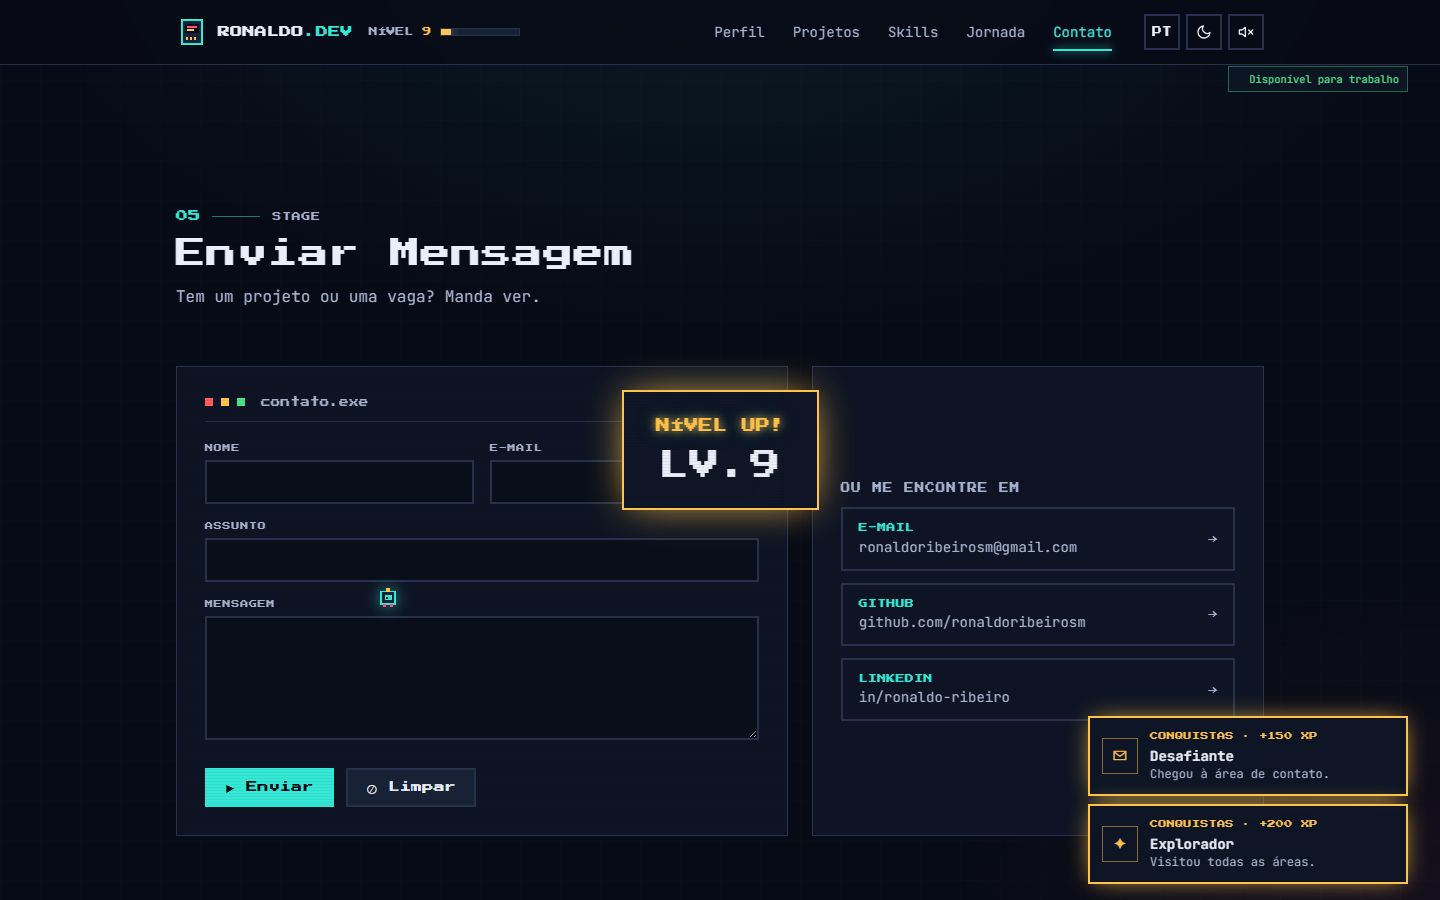
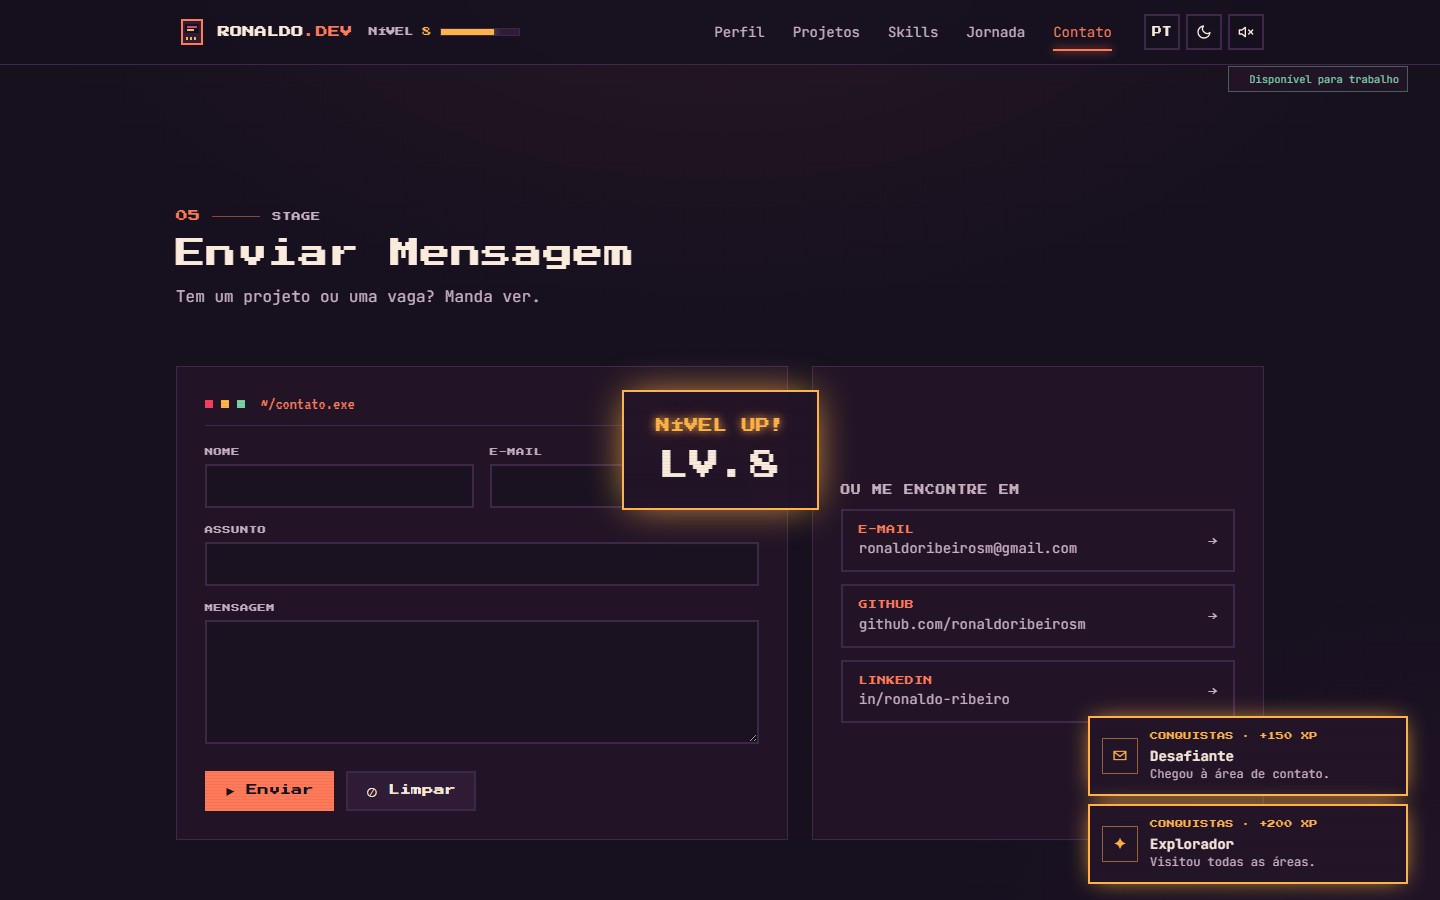
feat: paleta "Por do sol na Mantiqueira" + fundo pixel art autoral
- Nova paleta quente (terracota/ambar/magenta/teal) nos temas retro e cyber
- Fundo do hero: pixel art autoral da Serra da Mantiqueira a noite
  (ceu estrelado, montanhas, chale com janela acesa) com parallax e
  camadas de legibilidade
- Favicon e theme-color atualizados para a paleta nova

diff --git a/src/components/effects/ParallaxScene.tsx b/src/components/effects/ParallaxScene.tsx
@@ -2,72 +2,64 @@ import { useMemo } from 'react';
 import { motion, useScroll, useTransform } from 'framer-motion';
 import { usePrefersReducedMotion } from '@/lib/hooks';
 
-/** Cena de parallax autoral: estrelas + silhuetas de montanha em pixel. */
+/**
+ * Fundo do hero: pixel art autoral da Serra da Mantiqueira à noite,
+ * com parallax leve e camadas de brilho/escurecimento para manter o texto legível.
+ */
 export default function ParallaxScene() {
   const reduced = usePrefersReducedMotion();
   const { scrollY } = useScroll();
 
-  const yStars = useTransform(scrollY, [0, 800], [0, reduced ? 0 : 120]);
-  const yFar = useTransform(scrollY, [0, 800], [0, reduced ? 0 : 60]);
-  const yNear = useTransform(scrollY, [0, 800], [0, reduced ? 0 : -40]);
+  const yScene = useTransform(scrollY, [0, 800], [0, reduced ? 0 : 90]);
+  const yStars = useTransform(scrollY, [0, 800], [0, reduced ? 0 : 150]);
 
   const stars = useMemo(
     () =>
-      Array.from({ length: 46 }, (_, i) => ({
-        left: (i * 97.13) % 100,
-        top: (i * 53.7) % 70,
-        size: (i % 3) + 1,
-        delay: (i % 7) * 0.4,
+      Array.from({ length: 20 }, (_, i) => ({
+        left: (i * 61.7) % 100,
+        top: (i * 33.3) % 42,
+        size: (i % 3) === 0 ? 2 : 1,
+        delay: (i % 6) * 0.5,
       })),
     [],
   );
 
   return (
     <div className="pointer-events-none absolute inset-0 overflow-hidden" aria-hidden>
-      {/* estrelas */}
+      {/* cena em pixel art */}
+      <motion.img
+        src="/assets/bg/mantiqueira-night.png"
+        alt=""
+        style={{ y: yScene }}
+        className="absolute inset-x-0 bottom-0 h-[112%] w-full object-cover object-bottom opacity-90 [image-rendering:pixelated]"
+      />
+
+      {/* estrelas piscando (vida extra sobre o céu) */}
       <motion.div style={{ y: yStars }} className="absolute inset-0">
         {stars.map((s, i) => (
           <span
             key={i}
-            className="absolute bg-ink/70"
+            className="absolute rounded-full bg-ink"
             style={{
               left: `${s.left}%`,
               top: `${s.top}%`,
               width: s.size,
               height: s.size,
-              animation: reduced ? undefined : `twinkle ${2 + s.delay}s ease-in-out ${s.delay}s infinite`,
+              opacity: 0.7,
+              animation: reduced ? undefined : `twinkle ${2.4 + s.delay}s ease-in-out ${s.delay}s infinite`,
             }}
           />
         ))}
       </motion.div>
 
-      {/* montanha distante */}
-      <motion.svg
-        style={{ y: yFar }}
-        className="absolute bottom-0 left-0 h-[45%] w-full"
-        viewBox="0 0 100 40"
-        preserveAspectRatio="none"
-        shapeRendering="crispEdges"
-      >
-        <polygon points="0,40 0,26 14,14 26,24 40,10 54,22 70,8 84,20 100,12 100,40" fill="rgb(var(--c-violet) / 0.12)" />
-      </motion.svg>
-
-      {/* montanha próxima */}
-      <motion.svg
-        style={{ y: yNear }}
-        className="absolute bottom-0 left-0 h-[32%] w-full"
-        viewBox="0 0 100 30"
-        preserveAspectRatio="none"
-        shapeRendering="crispEdges"
-      >
-        <polygon points="0,30 0,20 12,10 24,18 38,6 52,16 66,7 80,17 92,9 100,16 100,30" fill="rgb(var(--c-primary) / 0.1)" />
-      </motion.svg>
-
-      {/* piso com brilho */}
-      <div className="absolute inset-x-0 bottom-0 h-24 bg-gradient-to-t from-primary/10 to-transparent" />
+      {/* legibilidade: escurece a base, o topo e a coluna esquerda */}
+      <div className="absolute inset-0 bg-gradient-to-t from-bg via-bg/25 to-bg/40" />
+      <div className="absolute inset-0 bg-gradient-to-r from-bg/70 via-transparent to-transparent" />
+      {/* brilho quente vindo do horizonte */}
+      <div className="absolute inset-x-0 bottom-0 h-40 bg-gradient-to-t from-secondary/12 to-transparent" />
 
       <style>{`
-        @keyframes twinkle { 0%,100%{opacity:.25} 50%{opacity:.9} }
+        @keyframes twinkle { 0%,100%{opacity:.25} 50%{opacity:.95} }
       `}</style>
     </div>
   );

diff --git a/src/index.css b/src/index.css
@@ -7,22 +7,22 @@
 /* ------------------------------------------------------------------ */
 
 :root {
-  /* Tema RETRO (padrão) — cabine arcade azul-noite com neon disciplinado */
-  --c-bg: 7 11 22;
-  --c-surface: 15 22 38;
-  --c-surface-2: 24 34 54;
-  --c-line: 38 50 77;
-  --c-ink: 234 238 249;
-  --c-dim: 166 178 208;
+  /* Tema RETRO (padrão) — pôr do sol na Mantiqueira: plum-noite, terracota, âmbar */
+  --c-bg: 22 16 31;
+  --c-surface: 36 21 40;
+  --c-surface-2: 48 28 54;
+  --c-line: 62 40 72;
+  --c-ink: 251 235 221; /* creme quente */
+  --c-dim: 200 176 194; /* mauve suave */
 
-  --c-primary: 53 232 213; /* ciano */
-  --c-secondary: 255 77 141; /* magenta */
-  --c-accent: 255 194 75; /* dourado */
-  --c-violet: 155 123 255;
-  --c-grass: 75 227 138;
-  --c-danger: 255 92 92;
+  --c-primary: 255 122 89; /* terracota */
+  --c-secondary: 199 75 139; /* magenta-rosa */
+  --c-accent: 255 179 71; /* âmbar */
+  --c-violet: 79 209 197; /* teal de destaque */
+  --c-grass: 123 209 168; /* menta */
+  --c-danger: 244 63 94; /* rosa-vermelho */
 
-  --grid-alpha: 0.045;
+  --grid-alpha: 0.04;
   --scan-alpha: 0.05;
 
   --z-base: 0;
@@ -38,19 +38,19 @@
 }
 
 :root[data-theme='cyber'] {
-  /* Tema CYBER — roxo profundo, neon mais quente e scanlines mais presentes */
-  --c-bg: 10 5 20;
-  --c-surface: 20 12 36;
-  --c-surface-2: 32 18 54;
-  --c-line: 58 36 92;
-  --c-ink: 240 236 255;
-  --c-dim: 183 168 216;
+  /* Tema CYBER — mesma serra, mais tarde da noite: plum profundo, neon mais quente */
+  --c-bg: 14 9 22;
+  --c-surface: 26 15 36;
+  --c-surface-2: 38 22 52;
+  --c-line: 58 36 78;
+  --c-ink: 253 240 232;
+  --c-dim: 210 186 204;
 
-  --c-primary: 41 242 224;
-  --c-secondary: 255 46 154;
-  --c-accent: 245 211 59;
-  --c-violet: 176 130 255;
-  --c-grass: 80 240 150;
+  --c-primary: 255 132 96;
+  --c-secondary: 225 72 155;
+  --c-accent: 255 190 90;
+  --c-violet: 69 224 210;
+  --c-grass: 120 224 172;
 
   --grid-alpha: 0.06;
   --scan-alpha: 0.08;

diff --git a/index.html b/index.html
@@ -3,7 +3,7 @@
   <head>
     <meta charset="UTF-8" />
     <meta name="viewport" content="width=device-width, initial-scale=1.0" />
-    <meta name="theme-color" content="#070b16" />
+    <meta name="theme-color" content="#16101f" />
     <link rel="icon" type="image/svg+xml" href="/favicon.svg" />
 
     <title>Ronaldo Ribeiro — Desenvolvedor Full Stack</title>
